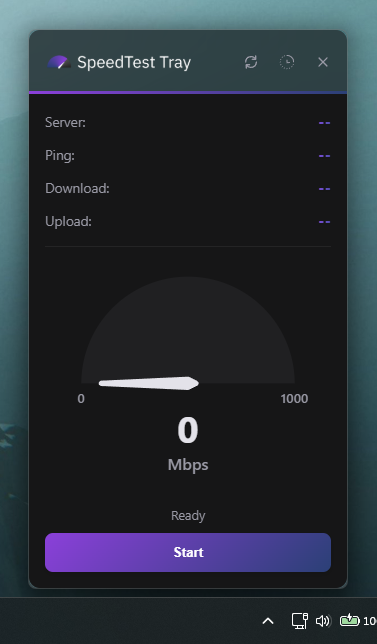
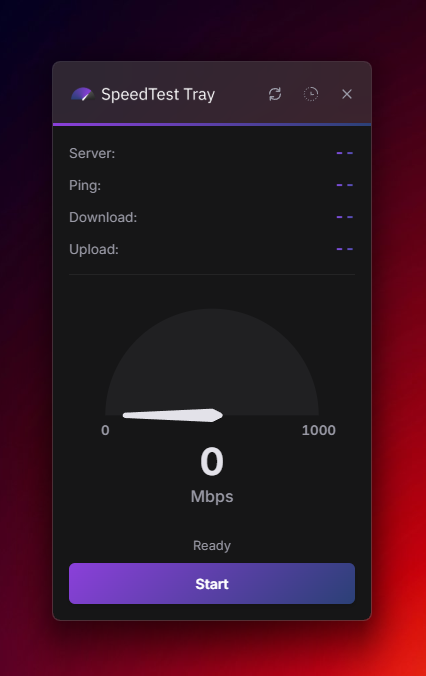
fix: upgrade installer, resolve window rounding gap, and isolate tests

diff --git a/frontend/style.css b/frontend/style.css
@@ -38,9 +38,9 @@
     --shadow-btn-active: 0 1px 2px rgba(0, 0, 0, 0.1);
 
     /* Design Tokens - Radii & Spacing */
-    --radius-lg: 12px;
-    --radius-md: 8px;
-    --radius-sm: 6px;
+    --radius-lg: 8px;
+    --radius-md: 6px;
+    --radius-sm: 4px;
 
     --spacing-lg: 16px;
     --spacing-md: 12px;

diff --git a/internal/gui_wails/main_test.go b/internal/gui_wails/main_test.go
@@ -1,0 +1,22 @@
+package gui_wails
+
+import (
+	"os"
+	"testing"
+)
+
+func TestMain(m *testing.M) {
+	tempDir, err := os.MkdirTemp("", "speedtest_gui_wails_test")
+	if err != nil {
+		panic(err)
+	}
+
+	os.Setenv("APPDATA", tempDir)
+	os.Setenv("XDG_CONFIG_HOME", tempDir)
+	os.Setenv("HOME", tempDir)
+
+	code := m.Run()
+
+	os.RemoveAll(tempDir)
+	os.Exit(code)
+}

diff --git a/internal/config/constants.go b/internal/config/constants.go
@@ -5,7 +5,7 @@ import "time"
 // App branding
 const AppName = "SpeedTest Tray"
 
-const AppVersion = "1.1.0"
+const AppVersion = "1.1.1"
 
 const (
 	GitHubOwner = "AarZoooo"
@@ -66,7 +66,7 @@ const (
 const (
 	WindowWidth         = 320
 	WindowHeight        = 560
-	WindowCornerRadius  = 24
+	WindowCornerRadius  = 16
 	WindowOffsetYPixels = -20
 	StandardDPI         = 96.0
 )

diff --git a/CHANGELOG.md b/CHANGELOG.md
@@ -2,6 +2,13 @@
 
 All notable changes to this project will be documented in this file.
 
+## [1.1.1] - 2026-06-19
+
+### Fixed
+- **Installer overhaul**: Migrated Windows installer to Modern UI 2 with customized branding and app icon integration.
+- **Corner radius gap**: Set HTML container corner radius to `8px` (and manual Win10 rounding fallback to `8px`) to match Windows 11 and macOS native window container standards, eliminating visible gaps.
+- **Test isolation**: Prevented development/placeholder history entries from polluting the user's real speedtest history during testing or build phases.
+
 ## [1.1.0] - 2026-06-19
 
 ### Added